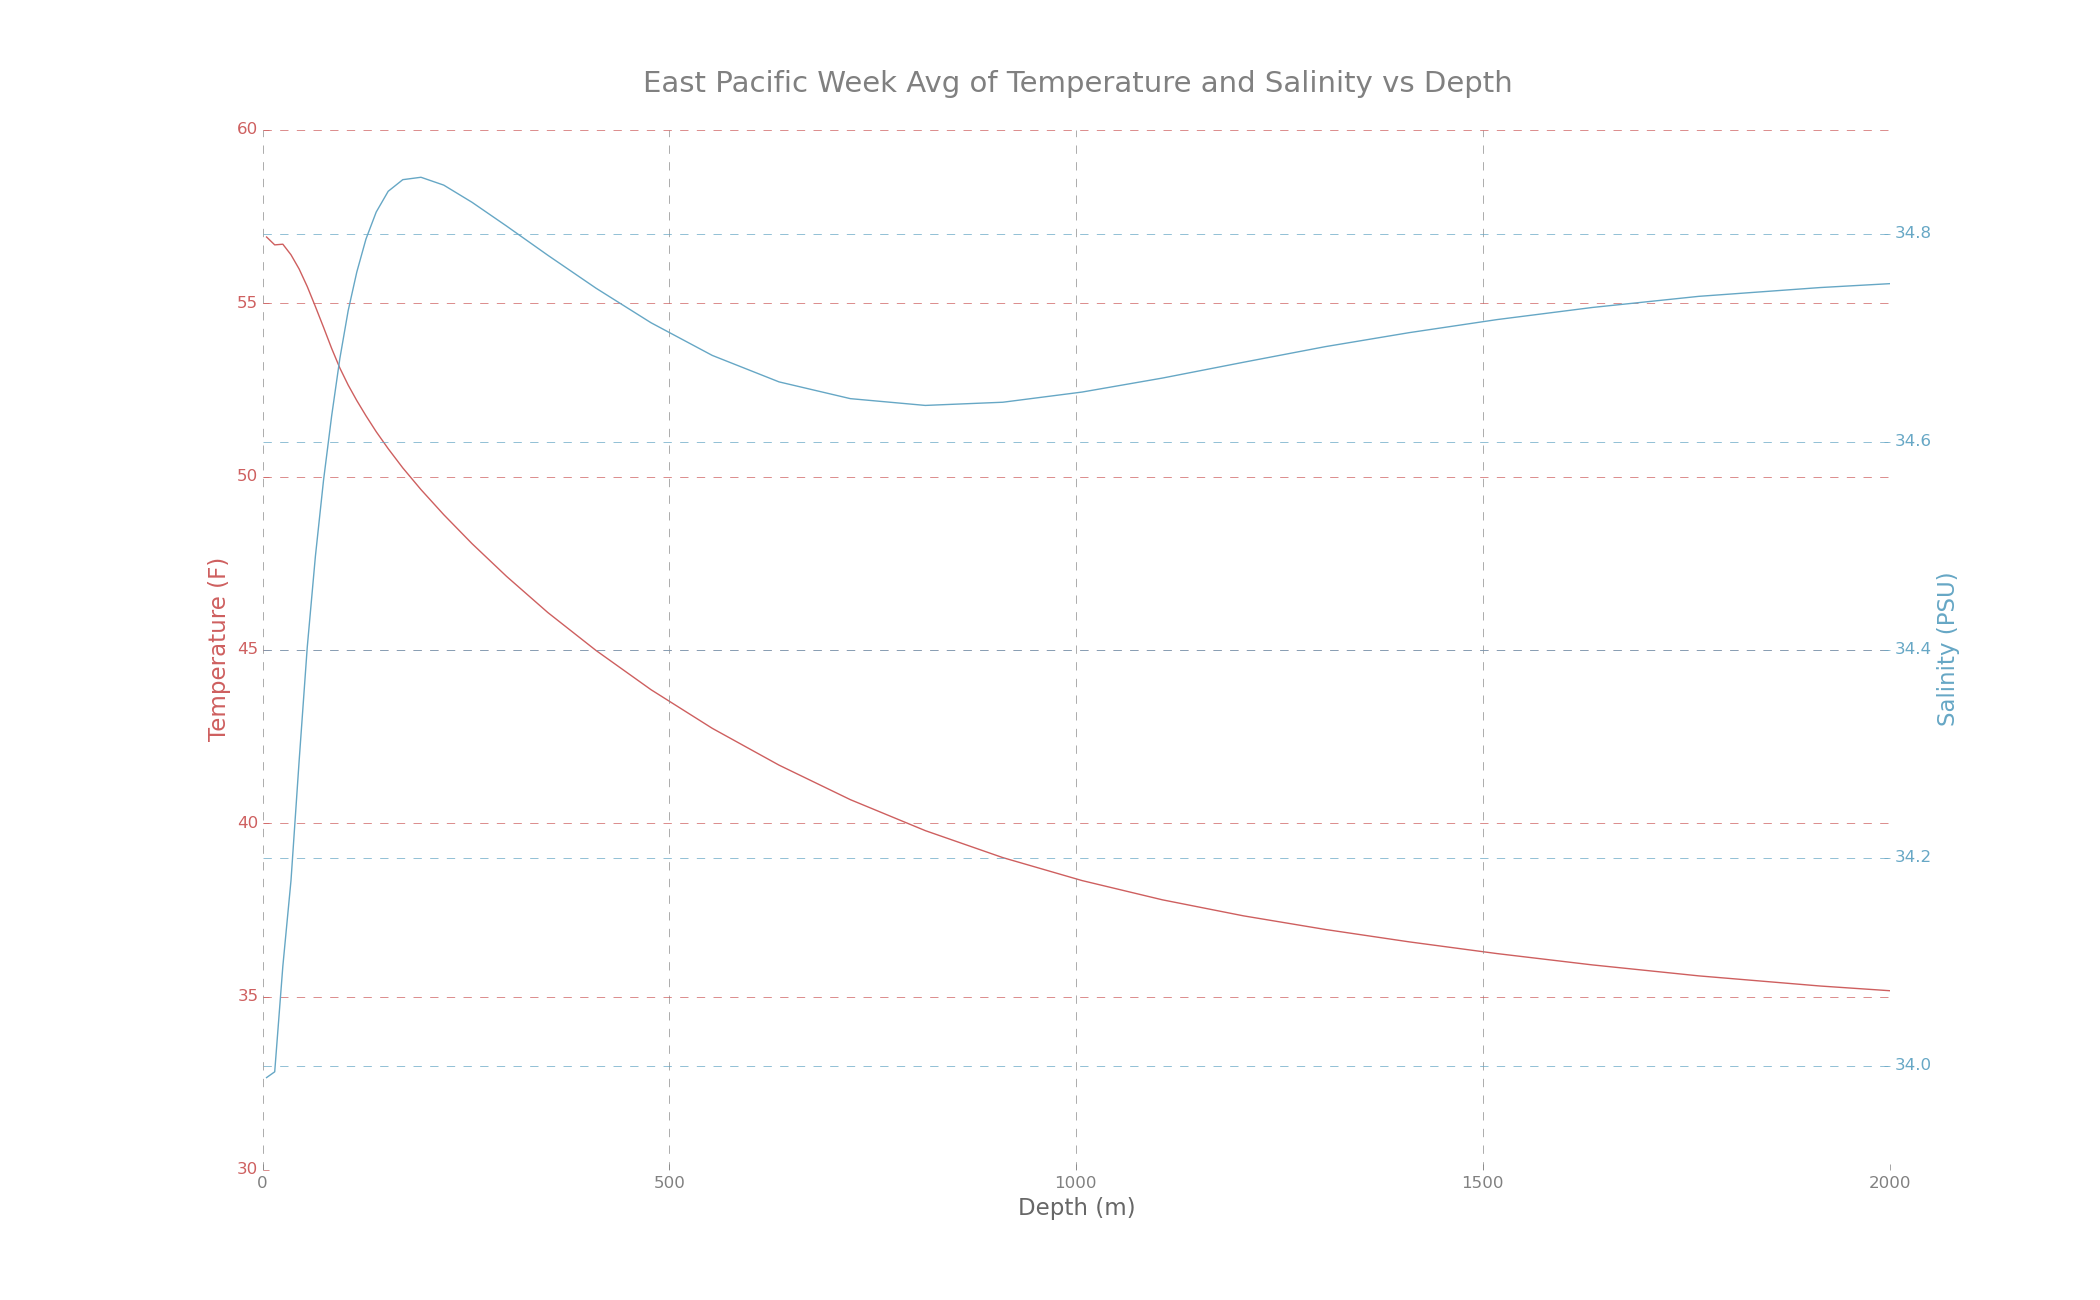
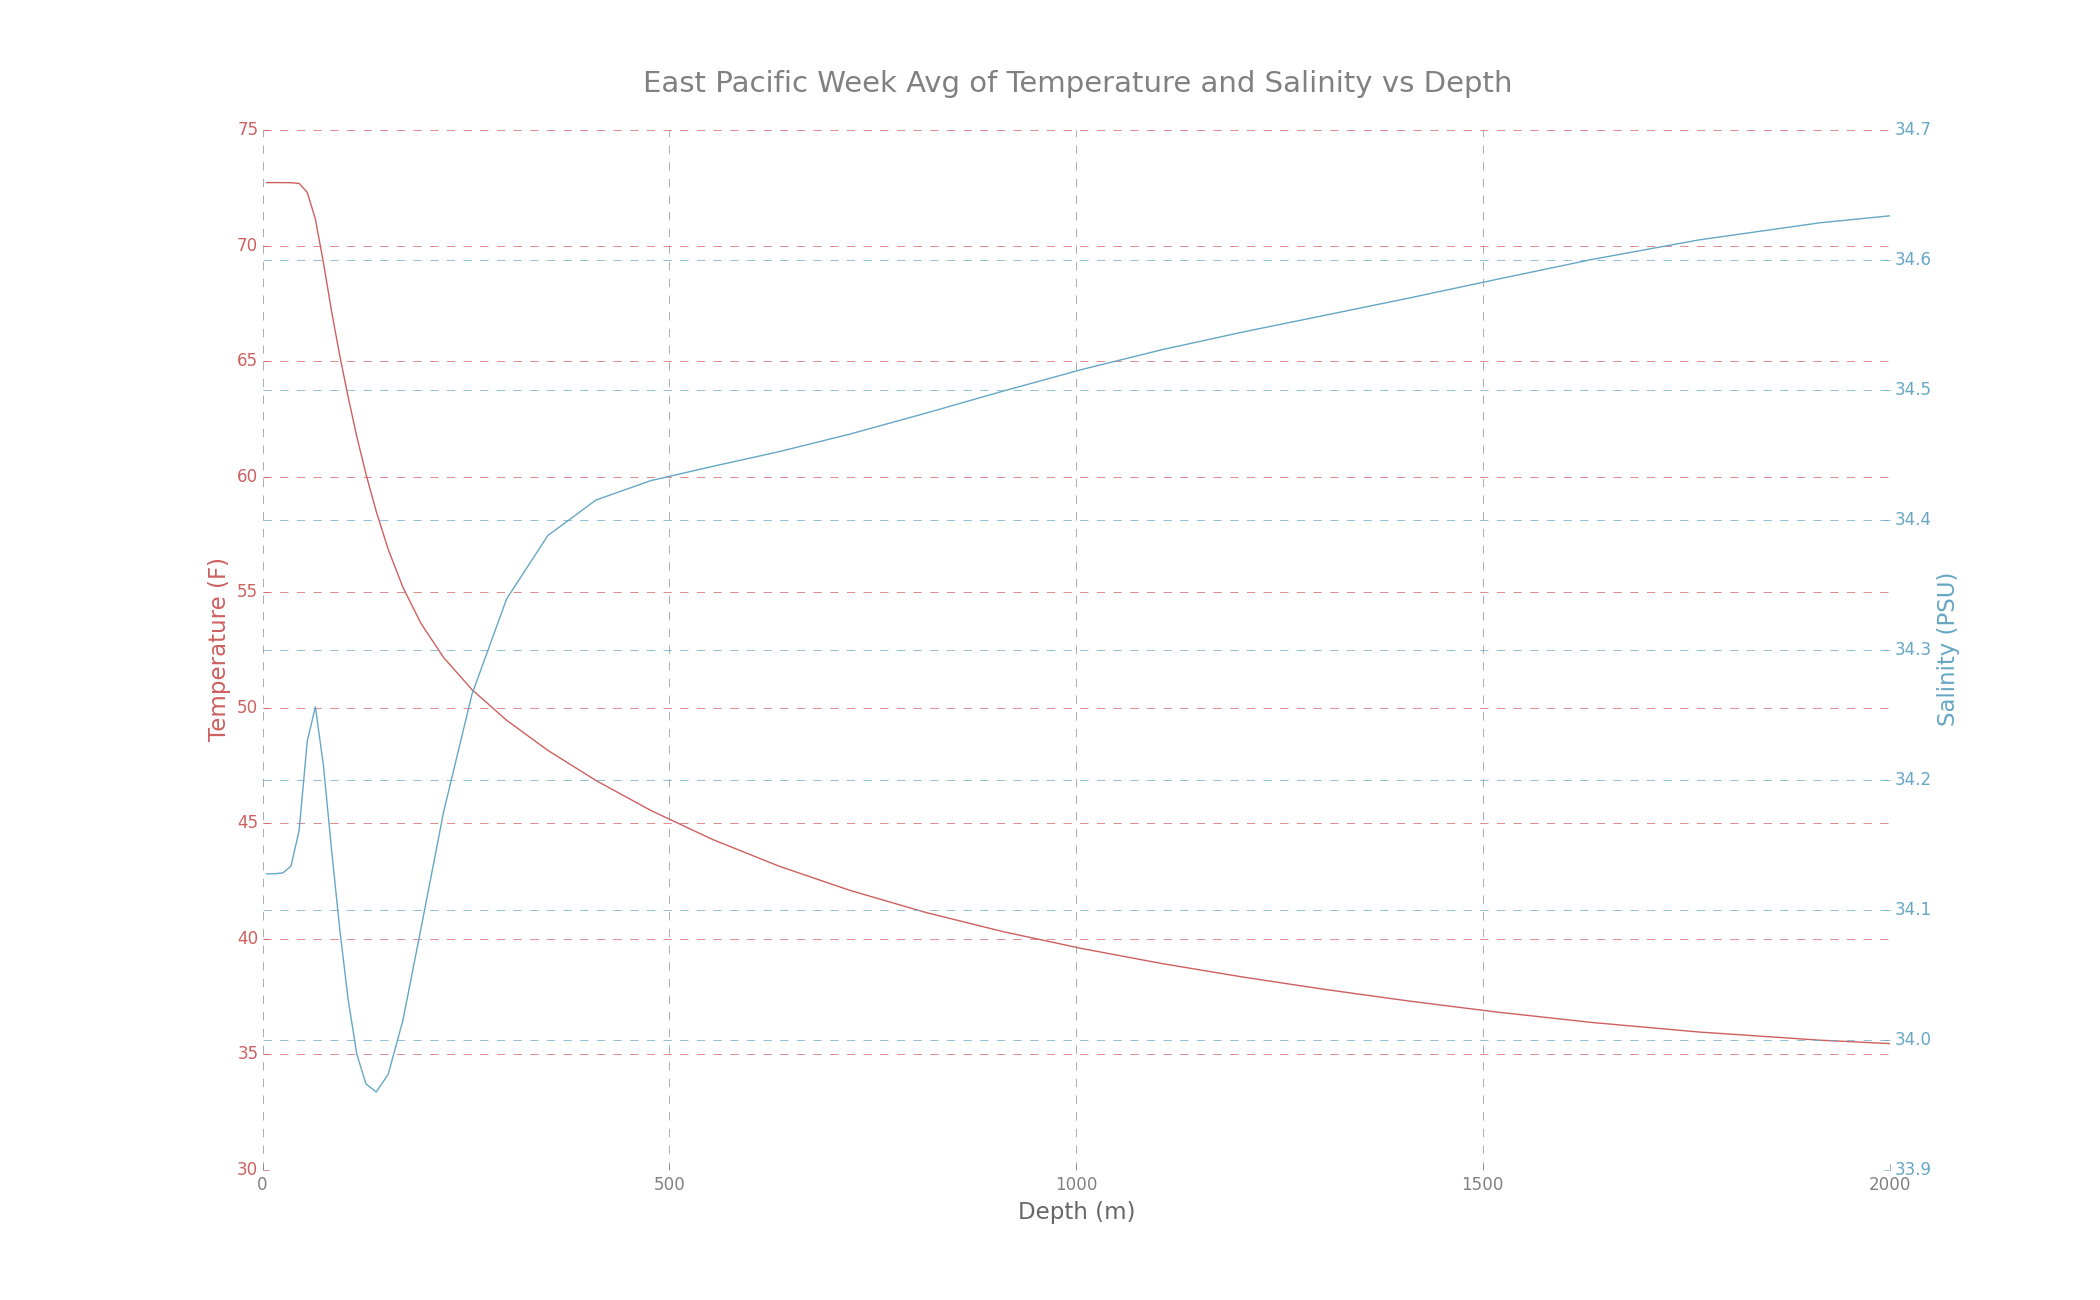
Updated example and changed level

diff --git a/ahh/sci.py b/ahh/sci.py
@@ -165,7 +165,7 @@ def get_norm_anom(data_avg):
     """
     Finds the normalized anomaly of some averaged data
 
-    :param: data_avg (np.array) - average data values
+    :param: data_avg (np.ma.array) - average data values
     :return: data_anom (float) - normalized anomaly
     """
     data_std = np.std(data_avg)
@@ -186,9 +186,9 @@ def get_avg(data, axis=(0),
     data dimensions must be in these orders:
     lat, lon
     time, lat, lon
-    time, lat, lon, level OR time, level, lat, lon (if change_lvl_order)
+    time, level, lat, lon OR time, lat, lon, level (if change_lvl_order)
 
-    :param: data (np.array) - input data
+    :param: data (np.ma.array) - input data
     :param: axis (tuple) - axis to average over
     :param: times_idc (np.array) - time indices
     :param: lats_idc (np.array) - latitude indices
@@ -198,7 +198,6 @@ def get_avg(data, axis=(0),
     
     :return: avg (np.array) - average over given parameters
     """
-    data = np.array(data)
     data_shp = data.shape
 
     if len(data_shp) == 2:
@@ -254,38 +253,6 @@ def get_avg(data, axis=(0),
             else:
                 time_start_idc = times_idc.min()
                 time_end_idc = times_idc.max()
-            if lvls_idc is None:
-                lvl_start_idc = 0
-                lvl_end_idc = data_shp[1]
-            else:
-                lvl_start_idc = lvl_idc.min()
-                lvl_end_idc = lvl_idc.max()
-            if lats_idc is None:
-                lat_start_idc = 0
-                lat_end_idc = data_shp[2]
-            else:
-                lat_start_idc = lats_idc.min()
-                lat_end_idc = lats_idc.max()
-            if lons_idc is None:
-                lon_start_idc = 0
-                lon_end_idc = data_shp[3]
-            else:
-                lon_start_idc = lons_idc.min()
-                lon_end_idc = lons_idc.max()
-            return np.ma.average(data[
-                                   time_start_idc:time_end_idc,
-                                   lvl_start_idc:lvl_end_idc,
-                                   lat_start_idc:lat_end_idc,
-                                   lon_start_idc:lon_end_idc,
-                                   ],
-                              axis=axis)
-        else:
-            if times_idc is None:
-                time_start_idc = 0
-                time_end_idc = data_shp[0]
-            else:
-                time_start_idc = times_idc.min()
-                time_end_idc = times_idc.max()
             if lats_idc is None:
                 lat_start_idc = 0
                 lat_end_idc = data_shp[1]
@@ -309,5 +276,37 @@ def get_avg(data, axis=(0),
                                    lat_start_idc:lat_end_idc,
                                    lon_start_idc:lon_end_idc,
                                    lvl_start_idc:lvl_end_idc,
+                                   ],
+                              axis=axis)
+        else:
+            if times_idc is None:
+                time_start_idc = 0
+                time_end_idc = data_shp[0]
+            else:
+                time_start_idc = times_idc.min()
+                time_end_idc = times_idc.max()
+            if lvls_idc is None:
+                lvl_start_idc = 0
+                lvl_end_idc = data_shp[1]
+            else:
+                lvl_start_idc = lvl_idc.min()
+                lvl_end_idc = lvl_idc.max()
+            if lats_idc is None:
+                lat_start_idc = 0
+                lat_end_idc = data_shp[2]
+            else:
+                lat_start_idc = lats_idc.min()
+                lat_end_idc = lats_idc.max()
+            if lons_idc is None:
+                lon_start_idc = 0
+                lon_end_idc = data_shp[3]
+            else:
+                lon_start_idc = lons_idc.min()
+                lon_end_idc = lons_idc.max()
+            return np.ma.average(data[
+                                   time_start_idc:time_end_idc,
+                                   lvl_start_idc:lvl_end_idc,
+                                   lat_start_idc:lat_end_idc,
+                                   lon_start_idc:lon_end_idc,
                                    ],
                               axis=axis)

diff --git a/examples/example.py b/examples/example.py
@@ -87,8 +87,7 @@ time, lat, lon, depth, theta = ext.read_nc(output_theta_fp,
 # # Since these are from the same distributor, we will assume lat, lon, depth
 # # are the same in both files so we don't waste memory
 output_salt_fp = os.path.join(full_dir, output_salt)
-_, _, _, salt = ext.read_nc(output_salt_fp,
-                            extra='SALT')
+salt = ext.read_nc(output_salt_fp, extra='SALT', already=True)
 
 # # Do a quick check if it was read in correctly.
 ext.ahh(theta, n='theta')
@@ -98,35 +97,23 @@ ext.ahh(salt, n='salt')
 # # Remember, -130 < -115!
 ep = [15, 30, -130, -115]
 
-# # Get the max min lat and lon indices.
 # # Since the dataset's lat and lon is defined in east longitude,
 # # set w2e (west to east) to True.
-lat_start, lat_end, lon_start, lon_end = \
-    ext.get_idc(lat, lon, ep[0], ep[1], ep[2], ep[3], maxmin=True, w2e=True)
+lats_idc, lons_idc = \
+    ext.get_idc(lat, lon, ep[0], ep[1], ep[2], ep[3], w2e=True)
 
-# # Average over time first (axis 0) Careful though! It's masked so use np.ma
-tavg_theta = np.ma.average(theta, axis=0)
-tavg_salt = np.ma.average(salt, axis=0)
+ext.ahh(lats_idc, 'lats')
+ext.ahh(lons_idc, 'lons')
 
-# # Do another quick check
-ext.ahh(tavg_theta, n='tavg_theta')
-ext.ahh(tavg_salt, n='tavg_salt')
-
-# # Average over lat (new axis 1)
-lat_tavg_theta = np.ma.average(tavg_theta, axis=1)
-lat_tavg_salt = np.ma.average(tavg_salt, axis=1)
-
-# # Average over lon (new axis 1)
-ep_tavg_theta = np.ma.average(lat_tavg_theta, axis=1)
-ep_tavg_salt = np.ma.average(lat_tavg_salt, axis=1)
-
-# # Final check!
-ext.ahh(ep_tavg_theta, n='ep_tavg_theta')
-ext.ahh(ep_tavg_salt, n='ep_tavg_salt')
+# # Average over respective lat, lons
+ep_tavg_theta = sci.get_avg(theta, axis=(0,2,3), lats_idc=lats_idc, lons_idc=lons_idc)
+ep_tavg_salt = sci.get_avg(salt, axis=(0,2,3), lats_idc=lats_idc, lons_idc=lons_idc)
 
 # # Convert Celsius to Fahrenheit for Americans
 ep_tavg_theta_f = sci.convert(ep_tavg_theta, c2f=True)
-print(ep_tavg_theta, ep_tavg_theta_f)
+
+ext.ahh(ep_tavg_theta_f, 'gah')
+ext.ahh(ep_tavg_salt, 'meh')
 
 # # Two methods of plotting: same axes or subplots
 vis.plot(depth, ep_tavg_theta_f,
